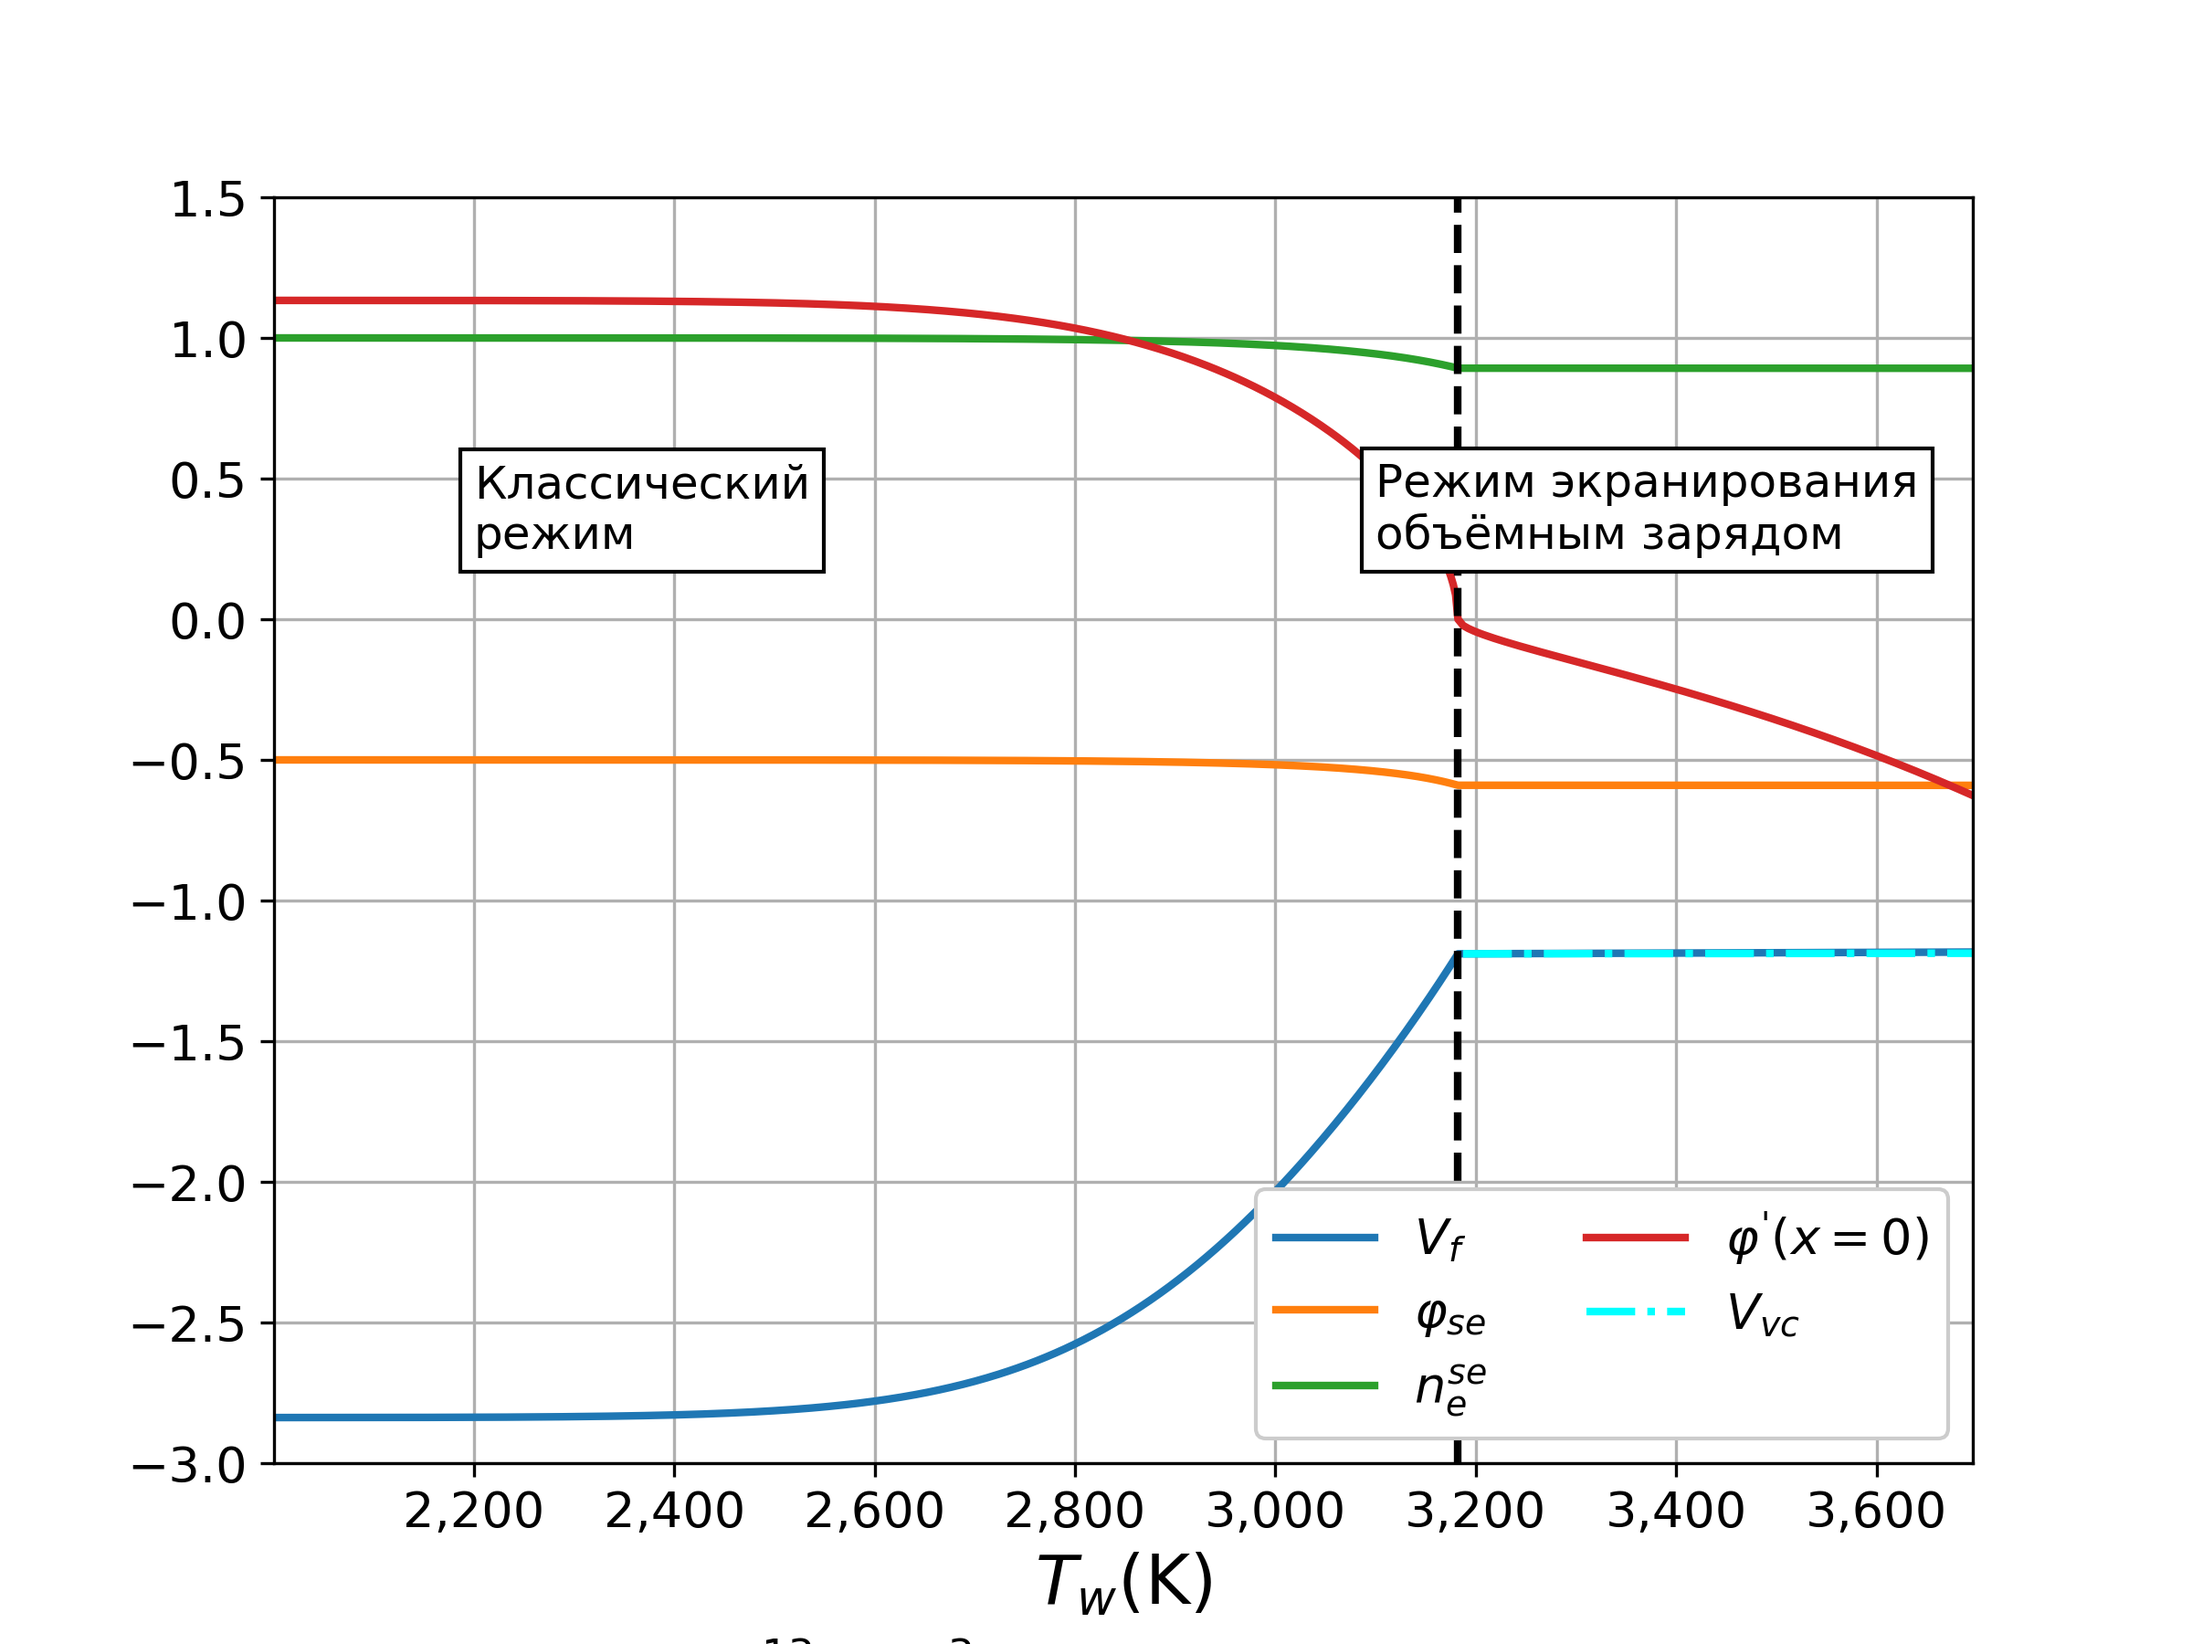
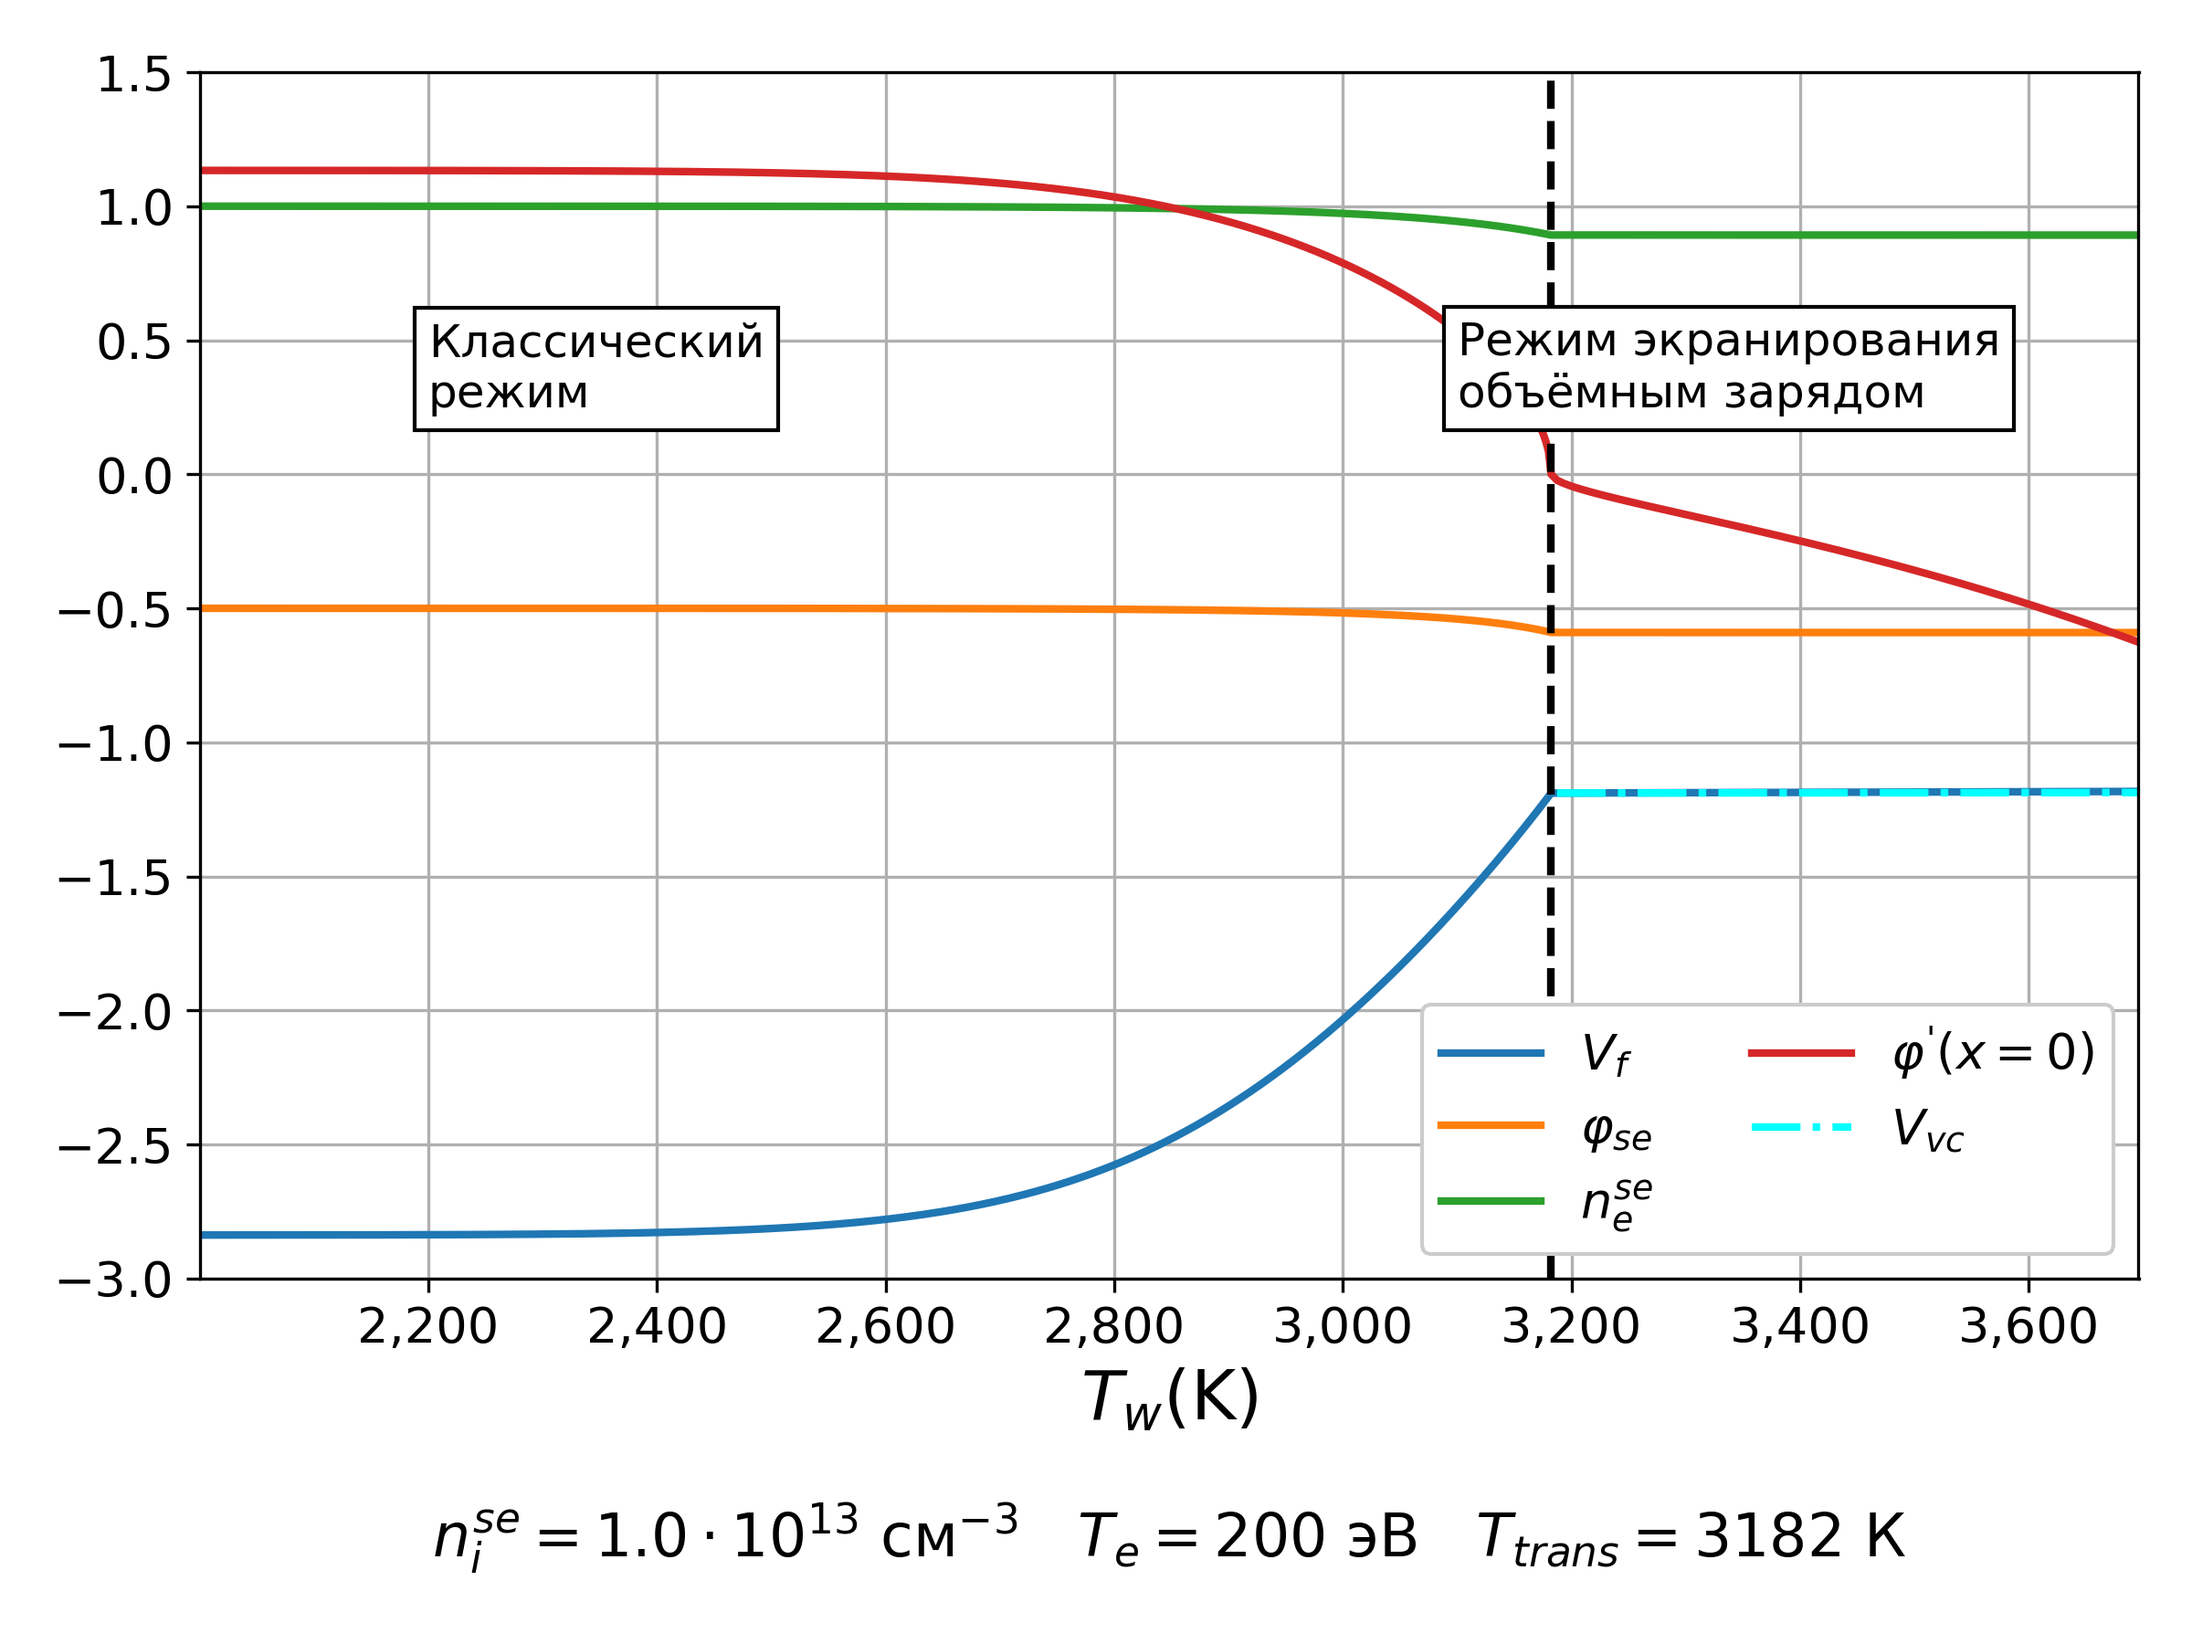
plot_parameters-Tw : figure subscript fixed

diff --git a/plot_parameters-Tw.py b/plot_parameters-Tw.py
@@ -13,6 +13,7 @@ params = {"text.latex.preamble": r"\usepackage{icomma}"}
 # locale.setlocale(locale.LC_NUMERIC, "ru_RU")
 plt.rcParams["axes.formatter.use_locale"] = True
 plt.rcParams.update(params)
+plt.rcParams["figure.autolayout"] = True
 
 # Plot hints styles
 props = dict(boxstyle="square", facecolor="white")
@@ -486,7 +487,7 @@ plt.title(r"$n_i^{se} = %.1f\cdot10^{%d}$ см$^{-3}$   "
     r"$T_e = %0.f$ эВ   "
     r"$T_{trans} = %0.f$ К"
     % (nse / 10 ** floor(log10(nse)), floor(log10(nse)), Te * erg_to_eV, TK(Tw_trans)),
-	y = -0.2)
+	y = -0.25)
 plt.xlabel(r"$T_w$(K)", fontdict = dict(fontsize = 18))
 plt.savefig("data/plot_parameters-Tw/Te=%deV_nse=%0.1fe%d.png" %(ceil(Te * erg_to_eV), nse / 10 ** floor(log10(nse)), floor(log10(nse))))
 plt.show()
